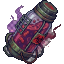
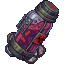
fix: 헬라 세포·금지된 바이러스 배경 잔여물 제거, LK-99·기숲 비석 그림 연결, 어느 전사의 기억 원래 그림, 네카르의 식칼 칼날 구멍

diff --git a/docs/ASSETS.md b/docs/ASSETS.md
@@ -8,7 +8,7 @@
 - 애니메이션(플레이어·적): `"anims": { "idle": { "from", "to", "fps" }, "move": { ... } }`(프레임 번호 0부터). 그림은 오른쪽을 보게 그리고(왼쪽이면 `"facing": "left"`), 움직이는 방향에 따라 좌우로 뒤집는다.
 - item·icon은 게임 화면이 아니라 카드·인벤토리·HUD 아이콘이다. tile은 한 장을 반복해서 깐다(문은 잠겼을 때만 보인다).
 
-전체 464개 · 그림 있음 451개
+전체 465개 · 그림 있음 452개
 
 ## player (3)
 
@@ -393,7 +393,7 @@
 | `item_extra_arms` | 추가 무장 | 8×8 | center | #5a8ad9 | mku/item_extra_arms.png (1프레임) |
 | `item_magnet_resonator` | 자기 공명 장치 | 8×8 | center | #5a8ad9 | mku/item_magnet_resonator.png (1프레임) |
 | `item_snell_law` | 스넬의 법칙 | 8×8 | center | #5a8ad9 | mku/item_snell_law.png (1프레임) |
-| `icon_skill_railgun` | LK-99 외 1곳 | 8×8 | center | #ffd23f | mku/icon_skill_railgun.png (1프레임) |
+| `item_lk99` | LK-99 | 8×8 | center | #ffd23f | mku/item_lk99.png (1프레임) |
 | `item_hela_cell` | 헬라 세포 | 8×8 | center | #5a8ad9 | mku/item_hela_cell.png (1프레임) |
 | `item_forbidden_virus` | 금지된 바이러스 | 8×8 | center | #5a8ad9 | mku/item_forbidden_virus.png (1프레임) |
 | `item_forbidden_gift` | 열어선 안되는 선물 | 8×8 | center | #ffd23f | mku/item_forbidden_gift.png (1프레임) |
@@ -407,7 +407,7 @@
 | `item_orion_shield` | 오리온의 방패 | 8×8 | center | #d9c25a | mku/item_orion_shield.png (1프레임) |
 | `item_hectar_ram` | 헥타르 RAM | 8×8 | center | #3a9aff | mku/item_hectar_ram.png (1프레임) |
 
-## icon (16)
+## icon (17)
 
 | 키 | 이름 | 권장 크기 | 기준점 | 지금 색 | 그림 |
 | --- | --- | --- | --- | --- | --- |
@@ -415,6 +415,7 @@
 | `icon_skill_magiMine` | 마기 지뢰 | 16×16 | center | #d9a03b | mku/icon_skill_magiMine.png (1프레임) |
 | `icon_skill_antimatterCannon` | 반물질포 | 16×16 | center | #a05ad9 | mku/icon_skill_antimatterCannon.png (1프레임) |
 | `icon_skill_magiField` | 마기역장 | 16×16 | center | #8aa4c8 | mku/icon_skill_magiField.png (1프레임) |
+| `icon_skill_railgun` | 레일건 | 16×16 | center | #3ba7d9 | mku/icon_skill_railgun.png (1프레임) |
 | `icon_skill_combatDrone` | 전투 드론 | 16×16 | center | #5ad9c0 | mku/icon_skill_combatDrone.png (1프레임) |
 | `icon_skill_unstableSubject` | 불안정 실험체 | 16×16 | center | #9ad94a | mku/icon_skill_unstableSubject.png (1프레임) |
 | `icon_skill_magiCorruption` | 마기 변질 | 16×16 | center | #c83a5a | mku/icon_skill_magiCorruption.png (1프레임) |

diff --git a/docs/DECISIONS.md b/docs/DECISIONS.md
@@ -632,3 +632,4 @@
 - HUD 버프 목록: 어두운 작은 줄(글씨 7px, 높이 9) + 버프 색 띠 + 오른쪽 값 + 아래 남은 비율 줄. 수치는 ui.json hud.buffs. 특무 인장 "순간이동"은 강화 공격이 남으면 ×n·아니면 쿨타임, 오리온의 방패 "타비트의 성물"은 방패가 나는 동안 상시·아니면 다음 투척까지. 도감: 아이템 효과 위에 버프 이름 굵게, 전설·유니크 목록 칸 테두리 불꽃, 신화 칸 회전하는 빛줄기.
 - 무기 특수공격 이름(signature.nameKey): 네메아의 종말·참수·0식 : 오피우쿠스·절규. 도감은 이름 있는 특수공격을 굵은 제목+설명으로 따로, 인벤토리·안내는 "이름 — 설명" 한 줄. 참수의 사방 참격은 8방향 관통탄(무기 피해 ×1, 사거리 120). 라스알히게 돌진은 최대 70px·0.12초, 적 앞(베기 반경의 절반)에서 멈추고 돌진이 끝난 자리에서 벤다. 공간격: 엘리트 즉사(eliteMaxHpRatio 1), 보스 ×2.4 → ×1.8, 벼락의 보스 최대 체력 10%는 그대로.
 - 아이템 그림: 사용자가 준 12장을 체크무늬 배경을 지워 원본 폴더(MKU-sprites-v174/assets/items/)에 넣고 build-art의 ITEM 표로 64px로 줄인다. 스킬 아이콘을 빌려 쓰던 8종에 전용 그림, 데스 휘슬·원혼 덩어리·아트로스 필사본·특무 인장은 새 그림으로 교체, 아프로 씨의 벨트·마고위키 필사본은 art.json 항목이 빠져 있던 것을 넣음. 어느 전사의 기억은 원본 아이콘이 잘려 있어 이름 없는 검 + 이름 없는 투구를 겹쳐 만든다. LK-99(레일건 아이콘)·기숲 비석의 조각(직접 찍은 도트)은 그림이 없어 그대로.
+- 아이템 그림 후속: 헬라 세포·금지된 바이러스는 도트 윤곽선 바깥(빛 번짐·연기 포함)을 모두 지운다. LK-99·기숲 비석의 조각 전용 그림 연결. 어느 전사의 기억은 원래 그림(잘린 원본 아이콘)으로 되돌림. 네카르의 식칼은 배경 검정 문턱 40 → 8 (어두운 칼날이 지워져 뚫려 있었다).
